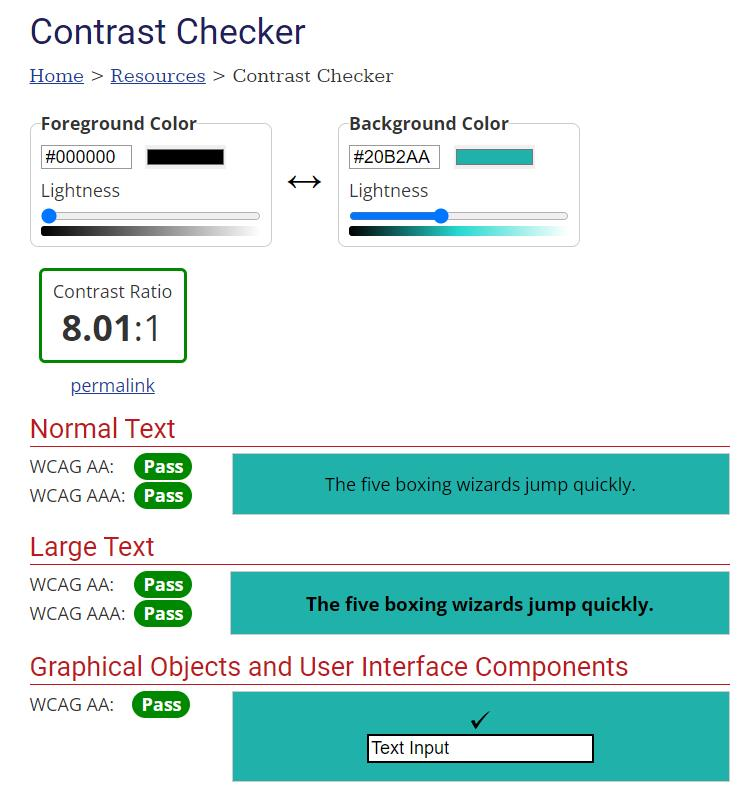
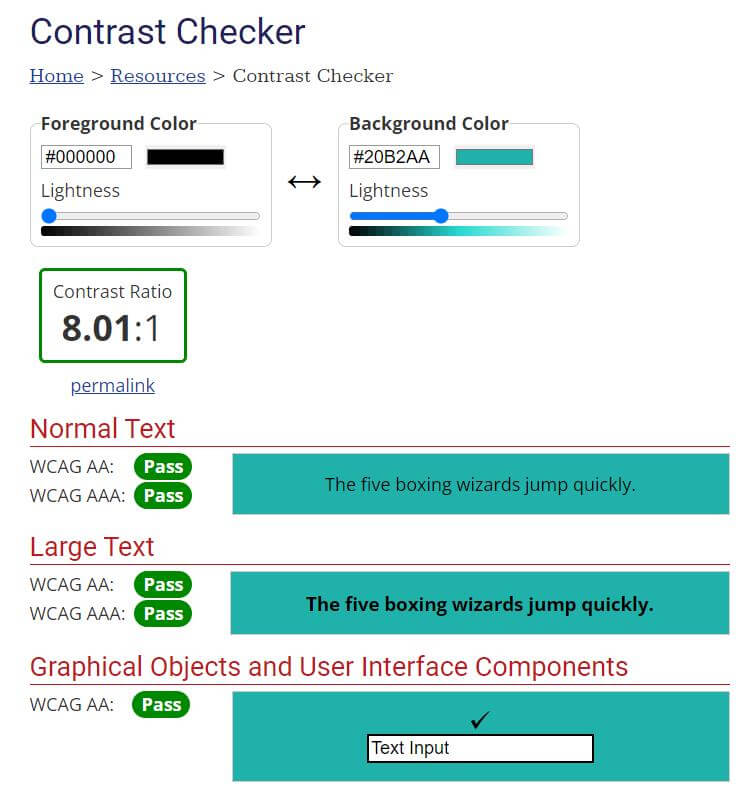
Add all validator images to finalise this section

diff --git a/README.md b/README.md
@@ -89,6 +89,12 @@ No errors were found when passing through the official (Jigsaw) validator
 
 ![W3C CSS Validator](readme-assets/w3c-css-validator.jpg)
 
+**Contrast Checker**
+
+The site achieved a pass when running through the contrast checker
+
+![Web Aim](readme-assets/contrast-checker.jpg)
+
 **Lighthouse**
 
 The page achieved great performance on mobile and desktop
